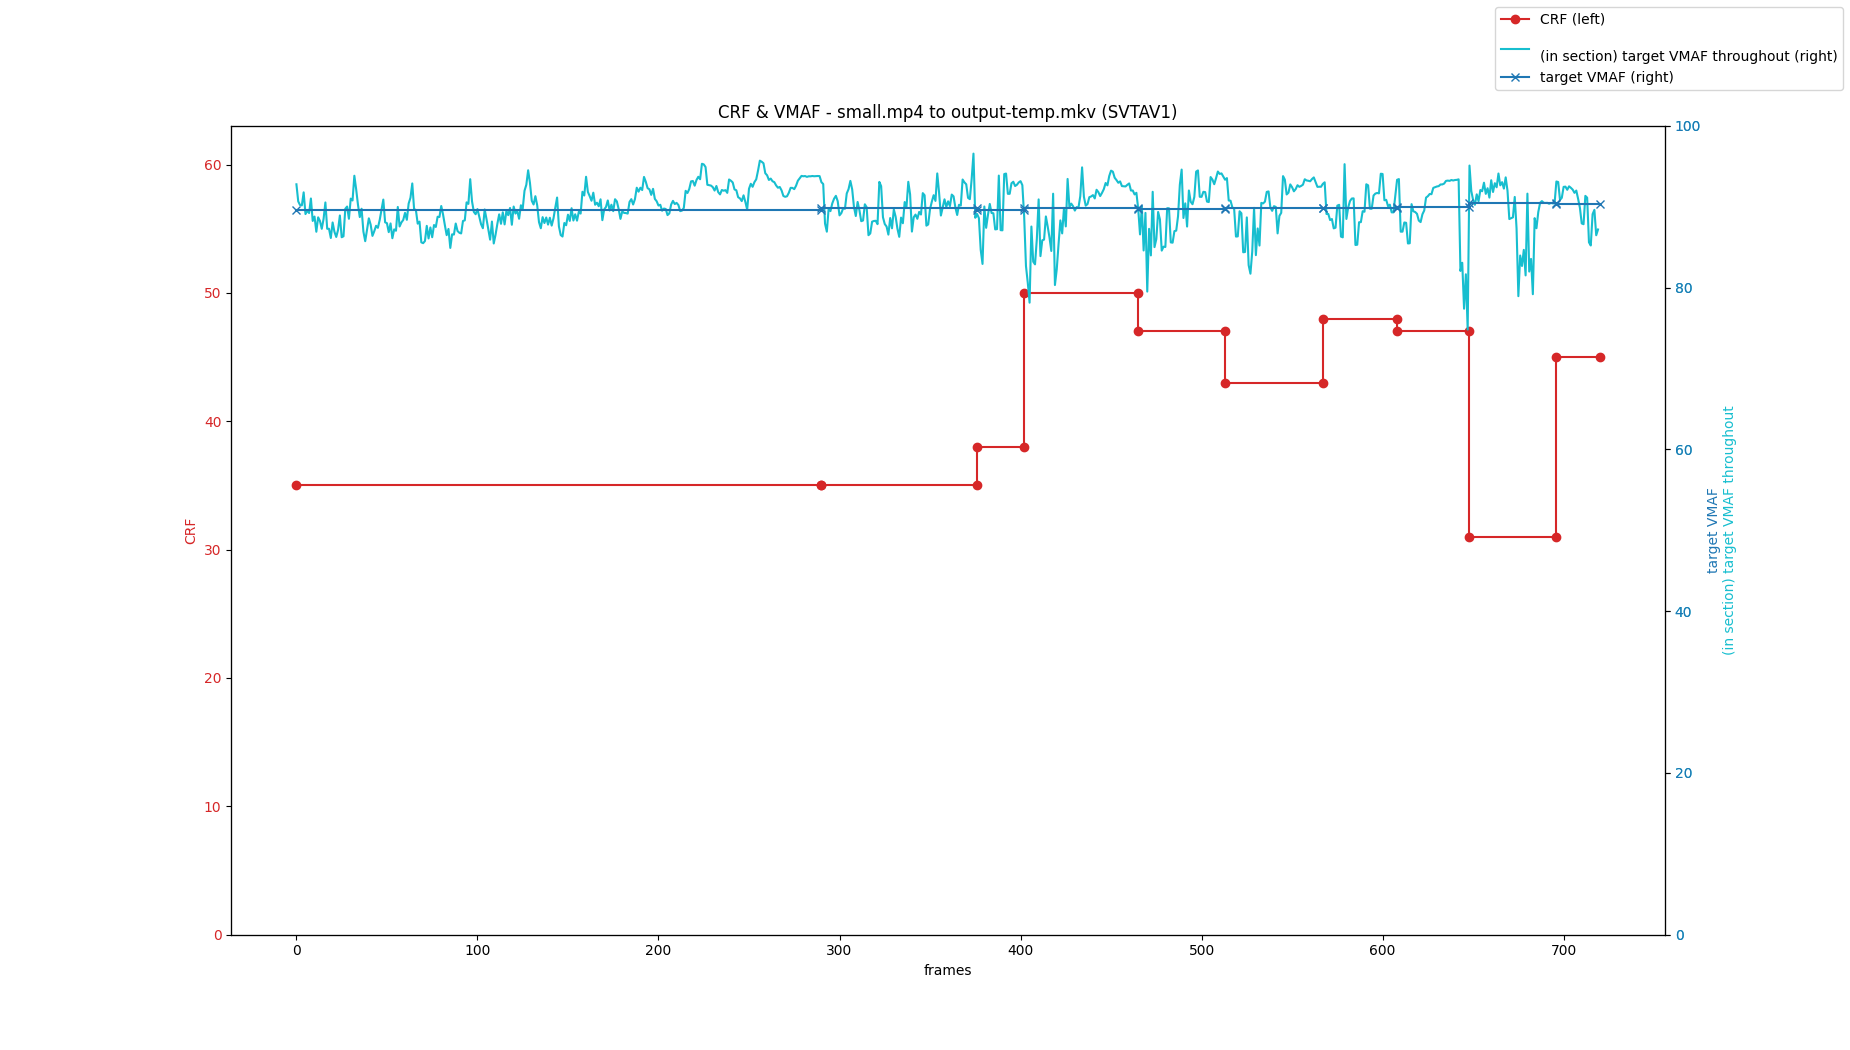
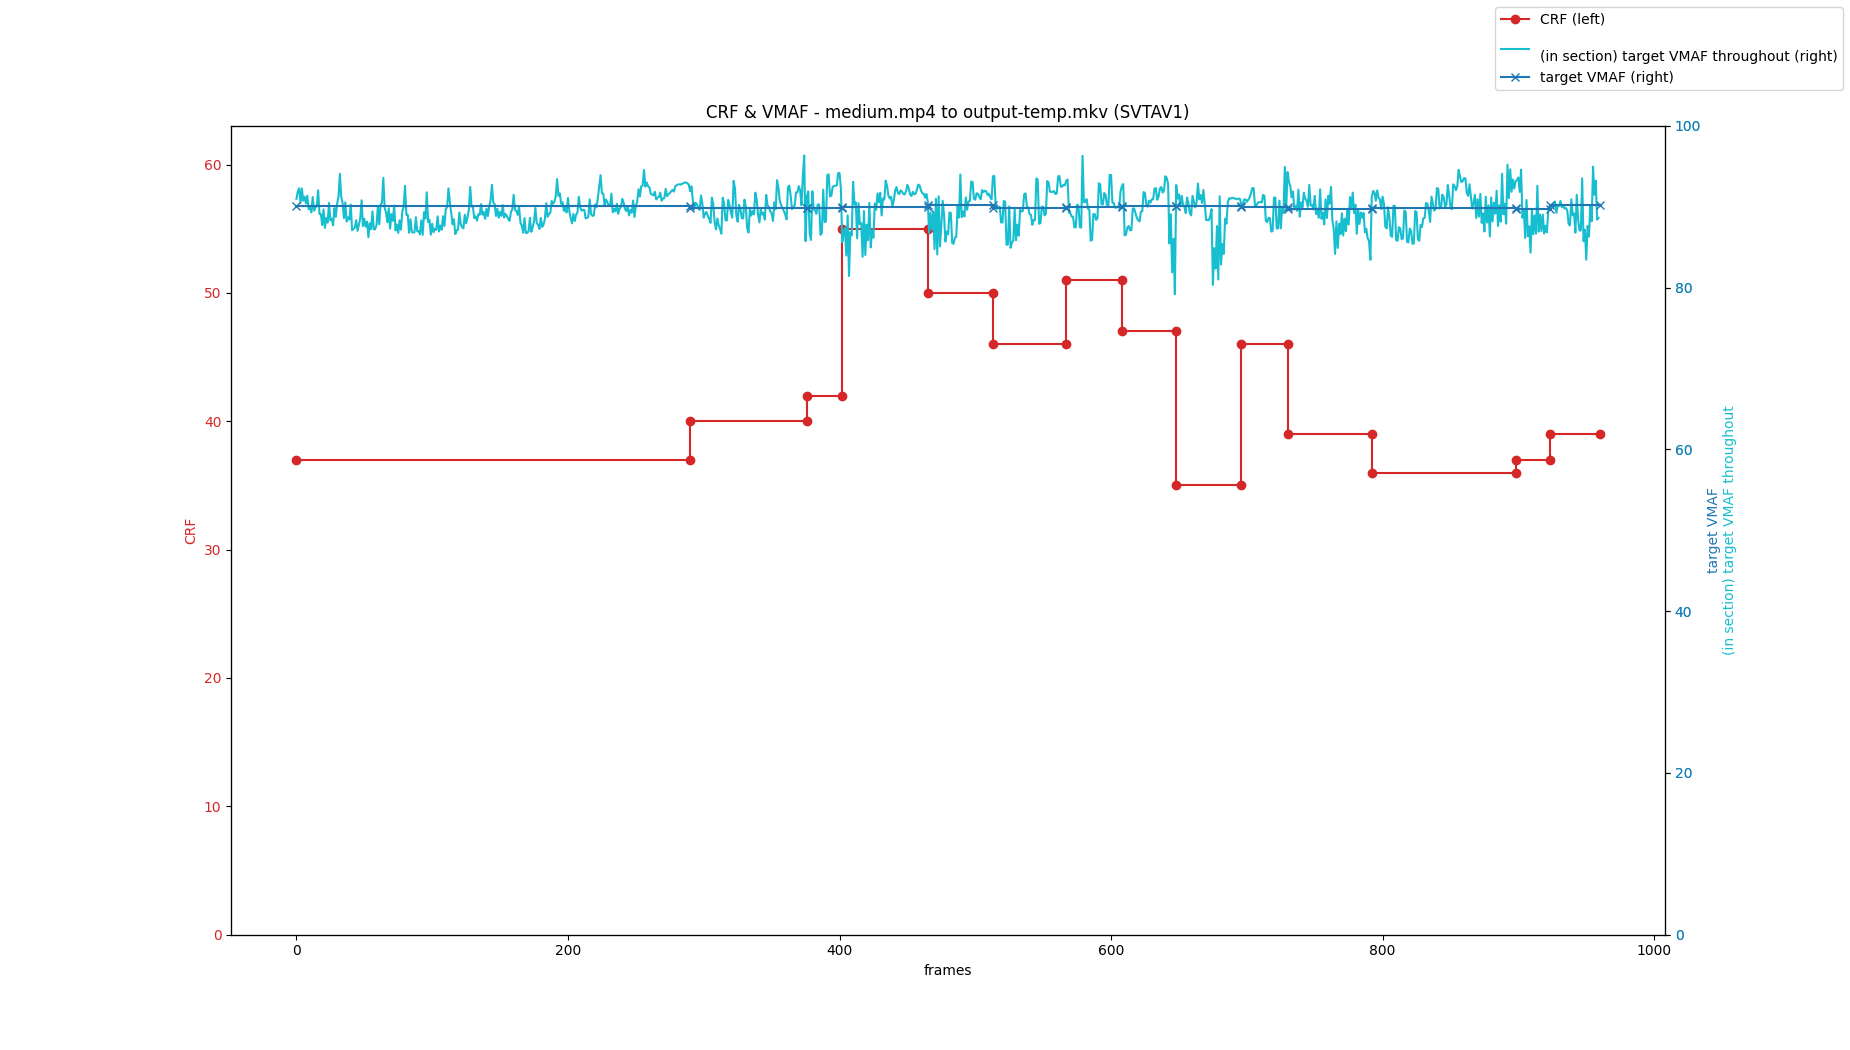
corrected the str() issue

diff --git a/src/v2_target_videoCRF.py b/src/v2_target_videoCRF.py
@@ -37,14 +37,16 @@ class videoInputData:
         "largest first"  # ensures that CPU always being used
     )
     make_comparison_with_blend_filter: bool = False
-    do_not_render_final_video: bool = False
+    render_final_video: bool = False
 
 
 def compressing_video(video: videoInputData) -> None:
     with rich_console.status(
         f"Getting metadata of input file ({video.videodata.input_filename})"
     ):
-        input_filename_data = ffmpeg.get_video_metadata(video.videodata)
+        input_filename_data = ffmpeg.get_video_metadata(
+            video.videodata, video.videodata.input_filename
+        )
         print(input_filename_data)
 
     with rich_console.status("Calculating scenes"):
@@ -99,7 +101,7 @@ def compressing_video(video: videoInputData) -> None:
         )
 
         # TODO: add section for rendering video
-        if not video.do_not_render_final_video:
+        if video.render_final_video:
             _ = ffmpeg.run_ffmpeg_command(
                 video.videodata,
                 Path(
@@ -205,7 +207,7 @@ def compressing_video(video: videoInputData) -> None:
                 colour="blue",
             )
 
-    if not video.do_not_render_final_video:
+    if video.render_final_video:
         ffmpeg.concatenate_video_files(
             [
                 temporary_video_file_names(x, Path())
@@ -245,10 +247,11 @@ def compressing_video(video: videoInputData) -> None:
 
     print(optimal_crf_list)
 
-    if video.do_not_render_final_video:
-        print(ffmpeg.get_video_metadata(video.videodata.input_filename))
-    else:
-        print(ffmpeg.get_video_metadata(video.videodata.output_filename))
+    print(ffmpeg.get_video_metadata(video.videodata, video.videodata.input_filename))
+    if video.render_final_video:
+        print(
+            ffmpeg.get_video_metadata(video.videodata, video.videodata.output_filename)
+        )
     # print(ffmpeg.get_video_metadata(video.full_output_filename))
 
 

diff --git a/src/ffmpeg.py b/src/ffmpeg.py
@@ -325,7 +325,9 @@ def run_ffmpeg_command(
     keyframe_placement: int | None,
     # input_file_script_seeking: accurate_seek,
 ) -> None | str:
-    framerate: float = get_video_metadata(input_file).frame_rate
+    framerate: float = get_video_metadata(
+        input_file, input_file.input_filename
+    ).frame_rate
     command: list[str] = []
 
     assert isinstance(
@@ -417,7 +419,8 @@ class VideoMetadata:
 def get_video_metadata(
     # filename: str,
     # input_file_vapoursynth: accurate_seek | str,
-    video_data: pathlib.Path | accurate_seek,
+    video_data: videodata.RawVideoData,
+    video_for_metadata: pathlib.Path | accurate_seek,
 ) -> VideoMetadata:
     def make_video_metadata(json_data: dict[str, dict]) -> VideoMetadata:
         first_stream_with_video: dict[str, str | int] = [
@@ -452,13 +455,18 @@ def get_video_metadata(
             # bitrate=int(json_data["format"]["bit_rate"]),
         )
 
+    assert isinstance(video_data, videodata.RawVideoData), "video_data is incorrect"
+
+    assert isinstance(video_for_metadata, accurate_seek) or isinstance(
+        video_for_metadata, pathlib.Path
+    ), "INCORRECT INPUT DATA"
+
     # command = video_data.input_filename
-    command = video_data
-    if isinstance(command, accurate_seek):
-        command = f"{command.command(None, None)}"
+    if isinstance(video_for_metadata, accurate_seek):
+        command = f"{video_for_metadata.command(None, None)}"
     # elif isinstance(command, Path):
     else:
-        command = f'cat "{command}"'
+        command = f'cat "{video_for_metadata}"'
 
     data = subprocess.run(
         f"zsh -c 'ffprobe -v quiet -print_format json -show_format -show_streams -count_frames <({command})'",

diff --git a/src/ffmpeg_heuristics.py b/src/ffmpeg_heuristics.py
@@ -54,7 +54,9 @@ class VMAF:
     ) -> float:
         print("Running FFMPEG COMMAND for vmaf")
 
-        frame_rate = ffmpeg.get_video_metadata(video_data).frame_rate
+        frame_rate = ffmpeg.get_video_metadata(
+            video_data, video_data.input_filename
+        ).frame_rate
 
         ffmpeg_command: list[str] = []
 
@@ -136,7 +138,9 @@ class VMAF:
     ) -> list[float]:
         print("Running FFMPEG COMMAND for vmaf")
 
-        frame_rate = ffmpeg.get_video_metadata(video_data).frame_rate
+        frame_rate = ffmpeg.get_video_metadata(
+            video_data, video_data.input_filename
+        ).frame_rate
 
         ffmpeg_command: list[str] = []
 

diff --git a/src/scene_detection.py b/src/scene_detection.py
@@ -75,9 +75,9 @@ def find_scenes(
     # scene_manager.add_detector(sd.AdaptiveDetector())
     # scene_manager.add_detector(sd.HashDetector())
 
-    _ = scene_manager.detect_scenes(video)
+    _ = scene_manager.detect_scenes(video, show_progress=True)
 
-    video_metadata = ffmpeg.get_video_metadata(video_data.input_filename)
+    video_metadata = ffmpeg.get_video_metadata(video_data, video_data.input_filename)
 
     scene_data = [
         SceneData(

diff --git a/src/main_program.py b/src/main_program.py
@@ -22,7 +22,7 @@ vapoursynth_script: str = "\n".join(
 
 def main() -> None:
     video_input = videodata.RawVideoData(
-        input_filename=Path("small.mp4"),
+        input_filename=Path("medium.mp4"),
         output_filename=Path("output-temp.mkv"),
         vapoursynth_script=videodata.vapoursynth_data(
             vapoursynth_script=vapoursynth_script,
